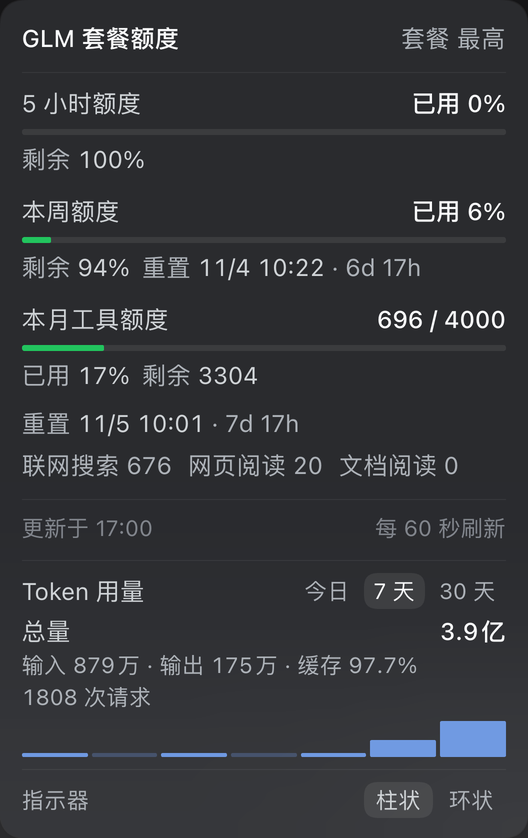
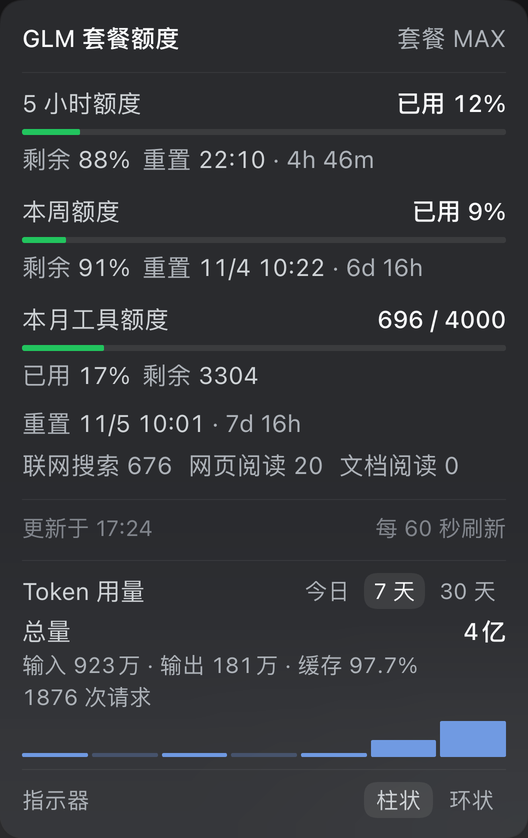
feat: mobile adaptation + official plan tier names (1.3.0)
- 手机端（≤520px）：徽标紧凑布局（隐藏分隔符、18px 进度条、可收缩
  裁剪不溢出视口），弹层左右各留 12px 铺满、限高 72vh 内滚动，
  触屏补 touchstart 点外关闭；媒体查询切换时重新定位
- 面板 style 直接透传 pos（原先只取 bottom/right，会丢 left/width）
- 套餐等级改用官方命名：MAX / PRO / LITE / FREE（原「最高/专业/轻量」）
- README：新增「手机端」效果图小节（GLM / DeepSeek 手机截图），
  特性列表补手机端适配说明；桌面 GLM 截图重拍（含 套餐 MAX）
- 实测：390px 视口 OpenCode 徽标 296px→236px 不再溢出，面板 366px 铺满

diff --git a/client.js b/client.js
@@ -220,8 +220,8 @@ window.__ModuleLoader__.load({
       inDuration: '{d}',
     };
 
-    /** 套餐等级的中文名：接口返回 max / pro / lite 这类枚举。 */
-    const LEVEL_ZH = { max: '最高', pro: '专业', lite: '轻量', free: '免费', none: '无' };
+    /** 套餐等级显示名：沿用官方命名（MAX / PRO / LITE / FREE），不做翻译。 */
+    const LEVEL_LABEL = { max: 'MAX', pro: 'PRO', lite: 'LITE', free: 'FREE' };
 
     /** 工具额度的分项名：接口返回 search-prime / web-reader / zread 这类编码。 */
     const TOOL_ZH = {
@@ -236,10 +236,11 @@ window.__ModuleLoader__.load({
     const CSS = [
       '.zq-anchor{flex:none;display:inline-flex;position:relative}',
       '.zq-anchor[data-align=end]{margin-left:auto;order:1}',
-      '.zq-pill{border-radius:var(--dsw-radius-sm);color:var(--dsw-alias-label-tertiary);font:inherit;font-size:calc(var(--dsh-content-font-size-secondary,13px) - 1px);font-variant-numeric:tabular-nums;line-height:calc(20px + var(--dsh-content-font-delta-secondary,0px));white-space:nowrap;cursor:pointer;background:0 0;border:none;flex:none;align-items:center;gap:6px;padding:1px 8px;display:inline-flex}',
+      '.zq-pill{border-radius:var(--dsw-radius-sm);color:var(--dsw-alias-label-tertiary);font:inherit;font-size:calc(var(--dsh-content-font-size-secondary,13px) - 1px);font-variant-numeric:tabular-nums;line-height:calc(20px + var(--dsh-content-font-delta-secondary,0px));white-space:nowrap;cursor:pointer;background:0 0;border:none;flex:0 1 auto;min-width:0;max-width:100%;overflow:hidden;align-items:center;gap:6px;padding:1px 8px;display:inline-flex}',
       '.zq-pill:hover,.zq-pill[aria-expanded=true]{background:var(--dsw-alias-interactive-bg-hover);color:var(--dsw-alias-label-secondary)}',
       '.zq-pill:focus-visible{outline:var(--dsw-focus-ring-width) solid var(--dsw-focus-ring-color,var(--dsw-alias-state-business-primary));outline-offset:-2px}',
-      '.zq-part{display:inline-flex;align-items:center;gap:5px}',
+      '.zq-brand{flex:none}',
+      '.zq-part{display:inline-flex;align-items:center;gap:5px;min-width:0}',
       '.zq-bar{flex:none;width:26px;height:5px;border-radius:3px;background:var(--dsw-alias-border-l2,#dde1e7);overflow:hidden;display:inline-block}',
       '.zq-bar-fill{display:block;height:100%;border-radius:3px;min-width:4px}',
       '.zq-sep{color:var(--dsw-alias-separator-primary);margin:0 1px}',
@@ -281,6 +282,14 @@ window.__ModuleLoader__.load({
       '.zp-spark{display:flex;align-items:flex-end;gap:2px;height:18px;margin-top:4px}',
       '.zp-spark i{flex:1;min-height:2px;border-radius:1px;background:var(--dsw-alias-state-business-primary);opacity:.85}',
       '.zp-spark i[data-empty=true]{opacity:.25}',
+      // 手机端（≤520px）：徽标更紧凑、弹层横向铺满并限制高度
+      '@media (max-width:520px){'
+        + '.zq-pill{gap:4px;padding:2px 7px}'
+        + '.zq-part{gap:4px}'
+        + '.zq-bar{width:18px}'
+        + '.zq-sep{display:none}'
+        + '.zp-panel{left:12px;right:12px;width:auto;max-height:min(calc(100vh - 96px),72vh);padding:12px}'
+        + '}',
     ].join('');
 
     /** 记住的指示器形态（无存储时返回 undefined）。 */
@@ -434,11 +443,12 @@ window.__ModuleLoader__.load({
       return t('windowOther');
     }
 
-    /** 套餐等级：中文名优先，未知等级原样显示。 */
+    /** 套餐等级：官方命名优先，未知等级原样显示。 */
     function levelLabel(level) {
       if (typeof level !== 'string' || level.length === 0) return undefined;
-      if (pickLang() === 'zh') return LEVEL_ZH[level.toLowerCase()] ?? level;
-      return level;
+      const key = level.toLowerCase();
+      if (key === 'none') return pickLang() === 'zh' ? '无' : 'none';
+      return LEVEL_LABEL[key] ?? level;
     }
 
     /** 工具分项：中文名优先，未收录的编码原样显示。 */
@@ -843,24 +853,30 @@ window.__ModuleLoader__.load({
         };
       }, []);
 
-      // 面板定位：贴在触发按钮上方，右边缘对齐。
+      // 面板定位：桌面端贴在触发按钮上方、右缘对齐；窄屏（≤520px）左右铺满。
       useEffect(() => {
         if (!open) return undefined;
         const place = () => {
           const el = rootRef.current;
           if (el === null) return;
           const rect = el.getBoundingClientRect();
-          setPos({
-            bottom: Math.max(12, window.innerHeight - rect.top + 8),
-            right: Math.max(12, window.innerWidth - rect.right),
-          });
+          const bottom = Math.max(12, window.innerHeight - rect.top + 8);
+          if (window.innerWidth <= 520) {
+            setPos({ bottom, left: 12, right: 12, width: 'auto' });
+          } else {
+            setPos({ bottom, right: Math.max(12, window.innerWidth - rect.right) });
+          }
         };
         place();
         window.addEventListener('resize', place);
         window.addEventListener('scroll', place, true);
+        const mq = typeof window.matchMedia === 'function' ? window.matchMedia('(max-width: 520px)') : null;
+        const onMedia = () => place();
+        if (mq !== null && typeof mq.addEventListener === 'function') mq.addEventListener('change', onMedia);
         return () => {
           window.removeEventListener('resize', place);
           window.removeEventListener('scroll', place, true);
+          if (mq !== null && typeof mq.removeEventListener === 'function') mq.removeEventListener('change', onMedia);
         };
       }, [open]);
 
@@ -876,9 +892,11 @@ window.__ModuleLoader__.load({
           if (event.key === 'Escape') setOpen(false);
         };
         document.addEventListener('mousedown', onDown);
+        document.addEventListener('touchstart', onDown, { passive: true });
         document.addEventListener('keydown', onKey);
         return () => {
           document.removeEventListener('mousedown', onDown);
+          document.removeEventListener('touchstart', onDown);
           document.removeEventListener('keydown', onKey);
         };
       }, [open]);
@@ -940,7 +958,7 @@ window.__ModuleLoader__.load({
               className: 'zp-panel',
               role: 'dialog',
               'aria-label': t(config.titleKey),
-              style: pos === null ? { visibility: 'hidden' } : { bottom: pos.bottom, right: pos.right },
+              style: pos === null ? { visibility: 'hidden' } : pos,
             }, buildPanel(t, useSource, state, indicator, (value) => {
               storeIndicator(value);
               setIndicator(value);
@@ -968,7 +986,7 @@ window.__ModuleLoader__.load({
             if (next) loadTokens(tokenRange);
           },
         }, [
-          h('span', { key: 'brand' }, config.brand),
+          h('span', { key: 'brand', className: 'zq-brand' }, config.brand),
           ...nodes,
         ]),
         panel,

diff --git a/README.md b/README.md
@@ -42,6 +42,7 @@ dsh plugin --profile desktop add github:shy3130/dsh-quota
 - **明细面板** —— 剩余 / 已用 / 重置倒计时（`6d 21h` 紧凑格式）、工具额度分项、柱状 / 环状指示器可切换并记忆
 - **Token 用量统计** —— 今日 / 7 天 / 30 天切换：总量、输入 / 输出、缓存命中率、请求数与每日柱状图，全部本地计算
 - **DeepSeek 费用估算** —— 按官方价目表（区分高峰 / 空闲时段）由本地 token 记录估算金额，不需要官方用量接口
+- **手机端适配** —— 窄屏（≤520px）下徽标自动紧凑（隐藏分隔符、缩短进度条、超宽裁剪），弹层横向铺满并限制高度，触屏点外部关闭
 - **纯插件、零侵入** —— 不修改任何官方源码；标准 DSH bundle，一条命令安装；所有路由带 DSH 登录门
 
 ## 效果图
@@ -62,6 +63,16 @@ dsh plugin --profile desktop add github:shy3130/dsh-quota
 |:---:|:---:|:---:|
 | <img src="docs/images/glm-panel.png" width="230" alt="GLM 明细面板"> | <img src="docs/images/opencode-go-panel.png" width="230" alt="OpenCode Go 明细面板"> | <img src="docs/images/deepseek-panel.png" width="230" alt="DeepSeek 余额与消耗面板"> |
 | 套餐窗口 + 工具额度 + Token 用量 | 5h / 周 / 月三窗 + Token 用量 | 余额（充值 / 赠送）+ 估算费用 |
+
+### 手机端
+
+窄屏自动切换为紧凑布局：徽标收窄不溢出，弹层横向铺满、限高滚动：
+
+| GLM | DeepSeek 官方 |
+|:---:|:---:|
+| <img src="docs/images/mobile-glm.png" width="280" alt="手机端 GLM 面板"> | <img src="docs/images/mobile-deepseek.png" width="280" alt="手机端 DeepSeek 面板"> |
+
+<img src="docs/images/mobile-pill.png" width="480" alt="手机端状态栏徽标（输入框上方）">
 
 ### 环状指示器
 
@@ -193,6 +204,8 @@ dsh plugin --profile desktop remove @local/dsh-quota
 客户端每秒查询一次 `/quota/active`（宿主只读内存，开销可忽略），窗口重新获得焦点时立即查询，另订阅 `settings/document-updated` 事件即时触发；额度数据本身每 60 秒刷新一次。
 
 ### 徽标示意
+
+套餐等级沿用官方命名（面板右上角显示 `套餐 MAX` / `套餐 PRO`，不做翻译）。
 
 ```text
 GLM 5h 21% ▰ · 周 6% ▰                     ← 智谱（zai-coding-cn）
